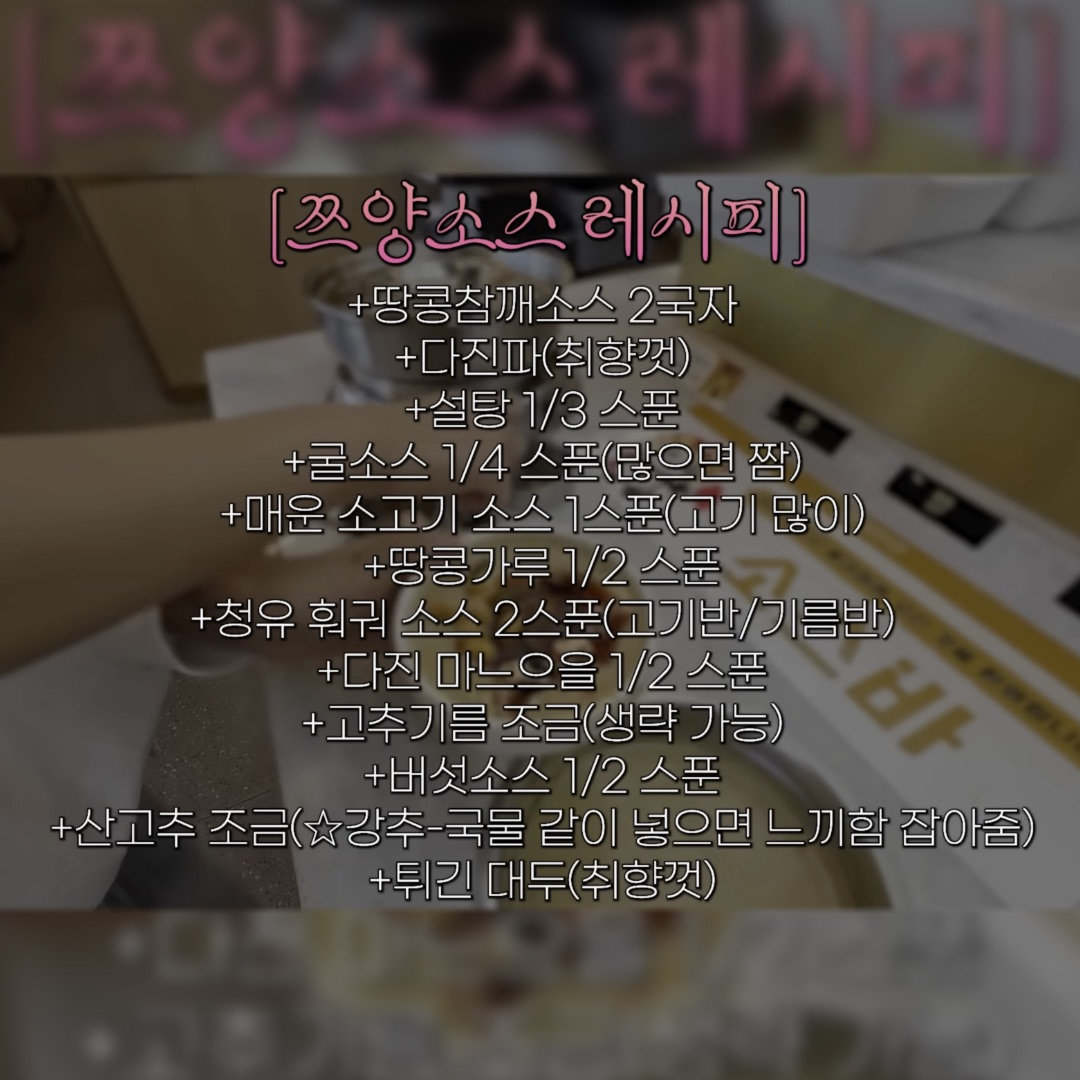
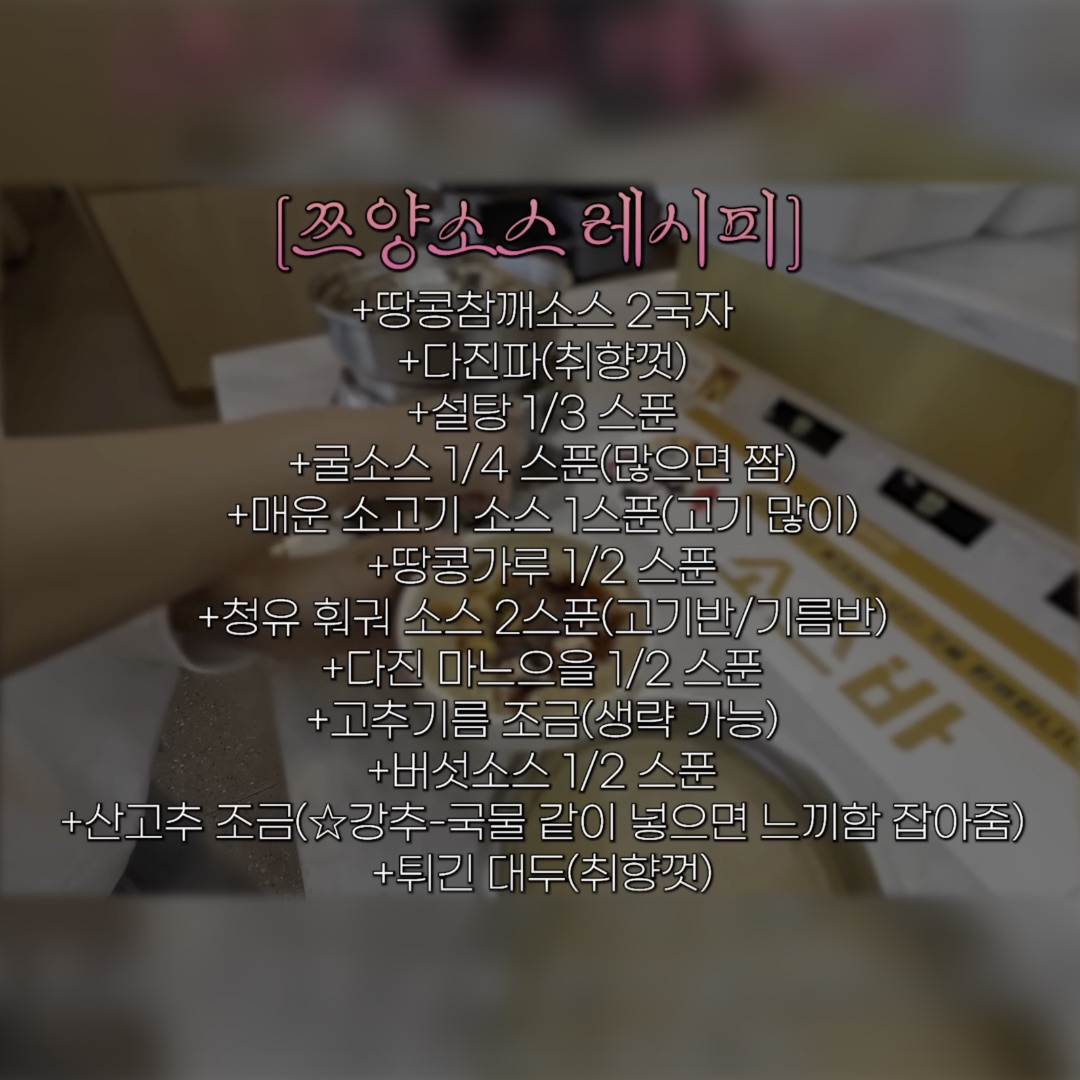
레시피 카드 6장을 새 그림으로 바꾼다 — 수코·우기·쯔양·예나의 친구소스·혼자햐탕·유부 새우완자(업그레이드)
- assets/cards/ JPG 6장 교체 (1080×1080, sips 82)
- RECIPES img 의 ?v= 6개 갱신, index.html script.js 959→960
- 원본 PNG 는 data/recipe/02_export/ 로, 옛 것은 99_archive/past-export/2026-09-08-그림교체-이전/ 로 (저장소 밖)

diff --git a/script.js b/script.js
@@ -378,7 +378,7 @@
       ings: [['다진 파', '1', '스푼'], ['양파', '0.5', '스푼'], ['다진 마늘', '0.5', '스푼'], ['발효콩장', '1', '스푼'], ['참기름', '2', '스푼'], ['굴소스', '1', '스푼'], ['완자간장소스', '0.5', '스푼'], ['오향우육', '1', '스푼'], ['발효두부소스', '2', '스푼'], ['버섯소스', '1', '스푼'], ['매운소고기소스', '1', '스푼'], ['태국고추', '', '적당히'], ['고수', '', '적당히'], ['참깨', '', '적당히'], ['중국식초', '', '적당히']],
       steps: [],
       tip: '태국고추, 고수, 참깨, 중국식초는 취향에 맞게 넣기' },
-    { id: 's22', date: '2026-05-25', cat: '소스', emoji: '🥣', img: 'assets/cards/수코소스.jpg?v=2', imgFit: 'cover', tint: 'linear-gradient(160deg,#EAF3E0,#CFE3BC)', name: '수코소스', source: 'YouTube sookoh 수코', person: '수코', desc: '유튜버 <b>수코</b>가 혼자 상하이에 있는 하이디라오 와이탄점에 방문해서 공개한 소스이다.',
+    { id: 's22', date: '2026-05-25', cat: '소스', emoji: '🥣', img: 'assets/cards/수코소스.jpg?v=3', imgFit: 'cover', tint: 'linear-gradient(160deg,#EAF3E0,#CFE3BC)', name: '수코소스', source: 'YouTube sookoh 수코', person: '수코', desc: '유튜버 <b>수코</b>가 혼자 상하이에 있는 하이디라오 와이탄점에 방문해서 공개한 소스이다.',
       ings: [['다진 파', '2', '스푼'], ['참기름', '2', '스푼'], ['다진 마늘', '1', '스푼'], ['소금', '0.5', '스푼'], ['고수', '', '적당히'], ['셀러리', '', '적당히']],
       steps: [],
       tip: '고수와 셀러리는 취향에 맞게 넣기' },
@@ -390,7 +390,7 @@
       ings: [['땅콩참깨소스', '2', '스푼'], ['발효콩장', '1', '스푼'], ['중국식초', '1', '스푼'], ['굴소스', '1', '스푼'], ['칠리갈릭소스', '1', '스푼'], ['완자간장소스', '1', '스푼'], ['다진 파', '', '적당히'], ['양파', '', '적당히']],
       steps: [],
       tip: '' },
-    { id: 's25', date: '2025-02-28', cat: '소스', emoji: '🥣', img: 'assets/cards/우기소스.jpg?v=1', imgFit: 'cover', tint: 'linear-gradient(160deg,#F0EFD9,#D6D4A2)', name: '우기소스', source: 'YouTube 미연zip MIYEON', star: true, person: '우기', notes: ['판독'], desc: '<b>(여자)아이들</b> <b>미연</b>의 유튜브 촬영 중 같은 멤버 <b>우기</b>가 공개한 소스로, <b>미연</b>이 맛을 보더니 <u>그냥 식초인데</u>라고 했다.',
+    { id: 's25', date: '2025-02-28', cat: '소스', emoji: '🥣', img: 'assets/cards/우기소스.jpg?v=2', imgFit: 'cover', tint: 'linear-gradient(160deg,#F0EFD9,#D6D4A2)', name: '우기소스', source: 'YouTube 미연zip MIYEON', star: true, person: '우기', notes: ['판독'], desc: '<b>(여자)아이들</b> <b>미연</b>의 유튜브 촬영 중 같은 멤버 <b>우기</b>가 공개한 소스로, <b>미연</b>이 맛을 보더니 <u>그냥 식초인데</u>라고 했다.',
       ings: [['땅콩참깨소스', '2', '스푼'], ['중국식초', '5', '스푼'], ['다진 파', '1', '스푼'], ['다진 마늘', '1', '스푼'], ['고수', '1', '스푼'], ['땅콩가루', '1', '스푼']],
       steps: [],
       tip: '' },
@@ -406,11 +406,11 @@
       ings: [['굴소스', '1', '바퀴'], ['매운소고기소스', '2', '스푼'], ['다진 마늘', '1', '스푼'], ['다진 파', '1', '스푼'], ['고수', '1', '스푼'], ['참깨', '0.5', '스푼'], ['고추기름', '3', '스푼']],
       steps: [],
       tip: '' },
-    { id: 's29', date: '2026-06-11', cat: '소스', emoji: '🥣', img: 'assets/cards/예나의 친구소스.jpg', imgFit: 'cover', tint: 'linear-gradient(160deg,#FADFDC,#F1B5AE)', name: '예나의 친구소스', nameHtml: '예나<span class="name-sub">의 친구</span>소스', source: 'YouTube 제이팍씨 Jay Park', star: true, person: '예나', desc: '<b>박재범</b>의 유튜브 촬영 중 <b>예나</b>가 공개한 소스이다. <b>예나</b>와 같은 고등학교 같은 반 친구가 만든 것으로, <u><b>건희소스</b>가 유행하기 전 어릴 때부터 <b>건희소스</b>와 비슷하게 만들어 먹었다</u>고 한다.',
+    { id: 's29', date: '2026-06-11', cat: '소스', emoji: '🥣', img: 'assets/cards/예나의 친구소스.jpg?v=1', imgFit: 'cover', tint: 'linear-gradient(160deg,#FADFDC,#F1B5AE)', name: '예나의 친구소스', nameHtml: '예나<span class="name-sub">의 친구</span>소스', source: 'YouTube 제이팍씨 Jay Park', star: true, person: '예나', desc: '<b>박재범</b>의 유튜브 촬영 중 <b>예나</b>가 공개한 소스이다. <b>예나</b>와 같은 고등학교 같은 반 친구가 만든 것으로, <u><b>건희소스</b>가 유행하기 전 어릴 때부터 <b>건희소스</b>와 비슷하게 만들어 먹었다</u>고 한다.',
       ings: [['땅콩참깨소스', '1', '스푼'], ['스위트칠리소스', '2', '스푼'], ['고추기름', '1', '스푼'], ['굴소스', '1', '스푼'], ['양파', '1', '스푼'], ['다진 마늘', '0.5', '스푼'], ['다진 파', '0.5', '스푼'], ['설탕', '', '적당히']],
       steps: [],
       tip: '' },
-    { id: 's30', date: '2025-05-08', cat: '소스', emoji: '🥣', img: 'assets/cards/쯔양소스.jpg', imgFit: 'cover', tint: 'linear-gradient(160deg,#FDE4D6,#F6C4A6)', name: '쯔양소스', source: 'YouTube 쯔양밖정원', star: true, person: '쯔양', desc: '유튜버 <b>쯔양</b>이 본인의 브이로그 채널 <b>쯔양밖정원</b>에서 공개한 특제 소스로, <u>하이디라오를 두 번째 방문했을 때 직원분이 만들어준 소스에 자기가 넣고 싶은 걸 첨가해서 이 맛이 태어났다</u>고 한다.',
+    { id: 's30', date: '2025-05-08', cat: '소스', emoji: '🥣', img: 'assets/cards/쯔양소스.jpg?v=1', imgFit: 'cover', tint: 'linear-gradient(160deg,#FDE4D6,#F6C4A6)', name: '쯔양소스', source: 'YouTube 쯔양밖정원', star: true, person: '쯔양', desc: '유튜버 <b>쯔양</b>이 본인의 브이로그 채널 <b>쯔양밖정원</b>에서 공개한 특제 소스로, <u>하이디라오를 두 번째 방문했을 때 직원분이 만들어준 소스에 자기가 넣고 싶은 걸 첨가해서 이 맛이 태어났다</u>고 한다.',
       ings: [['땅콩참깨소스', '2', '스푼'], ['청유훠궈소스', '2', '스푼'], ['버섯소스', '0.5', '스푼'], ['굴소스', '0.25', '스푼'], ['매운소고기소스', '1', '스푼'], ['튀긴대두', '', '적당히'], ['다진 마늘', '0.5', '스푼'], ['다진 파', '', '적당히'], ['산고추(고추장아찌)', '', '적당히'], ['땅콩가루', '0.5', '스푼'], ['고추기름', '', '적당히'], ['설탕', '0.33', '스푼']],
       steps: [],
       tip: '' },
@@ -481,7 +481,7 @@
         '물이 끓으면 소스바에서 가져온 재료를 모두 넣고 계속 끓여준다',
       ],
       tip: '' },
-    { id: 'b6', date: '2025-02-05', cat: '탕', emoji: '🍲', img: 'assets/cards/혼자햐탕.jpg?v=1', imgFit: 'cover', tint: 'linear-gradient(160deg,#F2DDD3,#D9A48F)', name: '혼자햐탕', source: 'YouTube 혼자햐', desc: '유튜버 <b>혼자햐</b>가 혼자 하이디라오에 가서 맑은 탕에 소스바 재료를 넣어서 셀프로 만드는 마라탕이다.',
+    { id: 'b6', date: '2025-02-05', cat: '탕', emoji: '🍲', img: 'assets/cards/혼자햐탕.jpg?v=2', imgFit: 'cover', tint: 'linear-gradient(160deg,#F2DDD3,#D9A48F)', name: '혼자햐탕', source: 'YouTube 혼자햐', desc: '유튜버 <b>혼자햐</b>가 혼자 하이디라오에 가서 맑은 탕에 소스바 재료를 넣어서 셀프로 만드는 마라탕이다.',
       order: [['맑은 탕/맹물', '', '']],
       /* 🔴 `그릇수`(2026-09-04 사용자님 확정) — 그릇 여러 개에 **똑같이** 나눠 담을 때 쓴다.
          목록은 한 번만 보여 주고 라벨을 「그릇 × N」으로 단다. 양은 **한 그릇 분량**이다
@@ -556,7 +556,7 @@
         '국물에 넣어 익혀 먹는다',
       ],
       tip: '' },
-    { id: 'e3', date: '2026-07-09', cat: '히든메뉴', emoji: '🍢', img: 'assets/cards/유부 새우완자(업그레이드).jpg?v=1', imgFit: 'cover', tint: 'linear-gradient(160deg,#F5EFE4,#DCD2C0)', name: '유부 새우완자', ver: '업그레이드', source: 'YouTube 풍류천재 조서형', desc: '새우완자에 소스바 재료를 첨가하여 유부에 채워 넣고 국물에 익혀 먹는 히든 메뉴이다.',
+    { id: 'e3', date: '2026-07-09', cat: '히든메뉴', emoji: '🍢', img: 'assets/cards/유부 새우완자(업그레이드).jpg?v=2', imgFit: 'cover', tint: 'linear-gradient(160deg,#F5EFE4,#DCD2C0)', name: '유부 새우완자', ver: '업그레이드', source: 'YouTube 풍류천재 조서형', desc: '새우완자에 소스바 재료를 첨가하여 유부에 채워 넣고 국물에 익혀 먹는 히든 메뉴이다.',
       order: [['새우완자/날치알새우완자', '1', '인분'], ['유부', '1', '인분']],   // 2026-09-05 사용자님 — 오리지널과 같이 「또는」 두 줄로
       ings: [['참기름', '1', '스푼'], ['다진 마늘', '1', '스푼'], ['다진 파', '1', '스푼'], ['고수', '1', '스푼']],
       steps: [

diff --git a/index.html b/index.html
@@ -1571,7 +1571,7 @@
 
 <!-- 메뉴 데이터 — `node .claude/make_menu_data.mjs`가 메뉴.md 에서 자동 생성한다. 손으로 고치지 말 것 -->
 <script src="menu-data.js?v=7"></script>
-<script src="script.js?v=959"></script>
+<script src="script.js?v=960"></script>
 
 <!-- Cloudflare Web Analytics --><script type='module' src='https://static.cloudflareinsights.com/beacon.min.js' data-cf-beacon='{"token": "d7c0ac8f66544156bca23d2c7f84c961"}'></script><!-- End Cloudflare Web Analytics -->
 </body>
